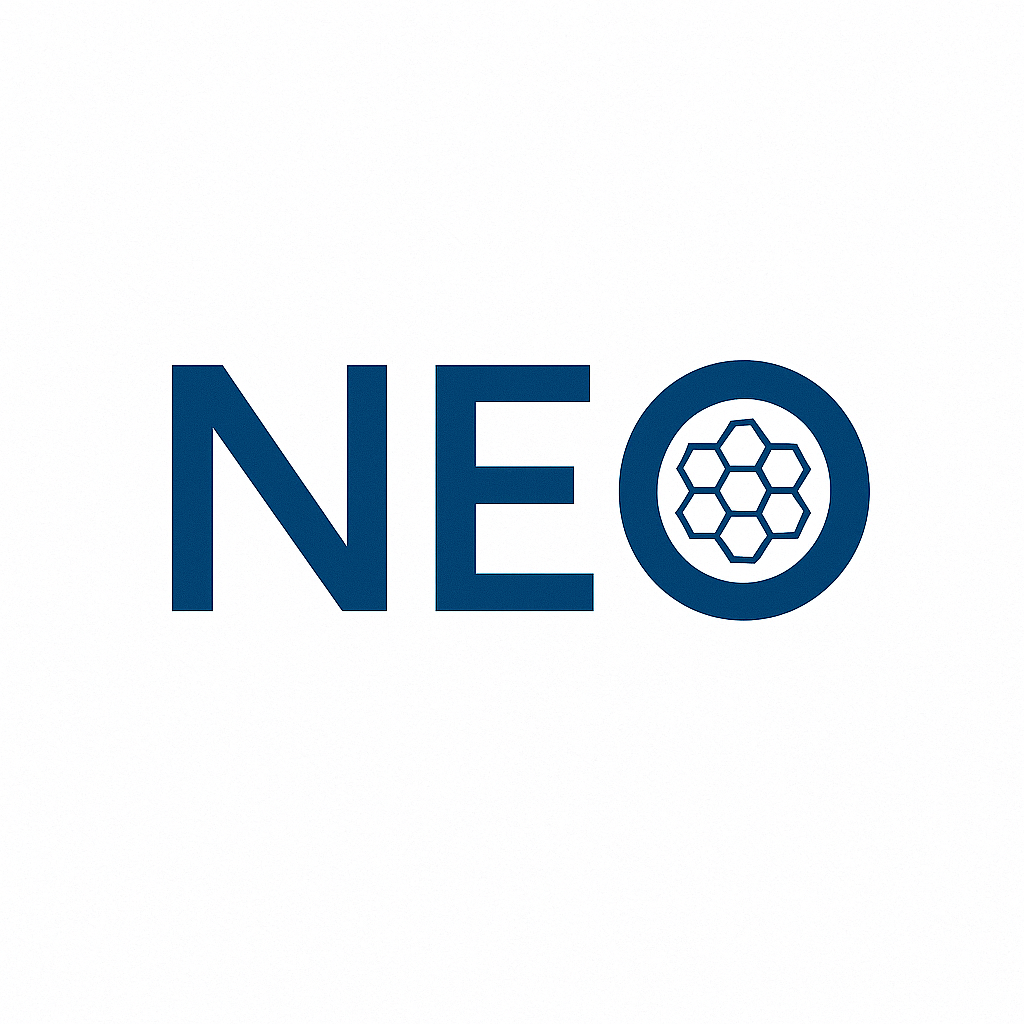
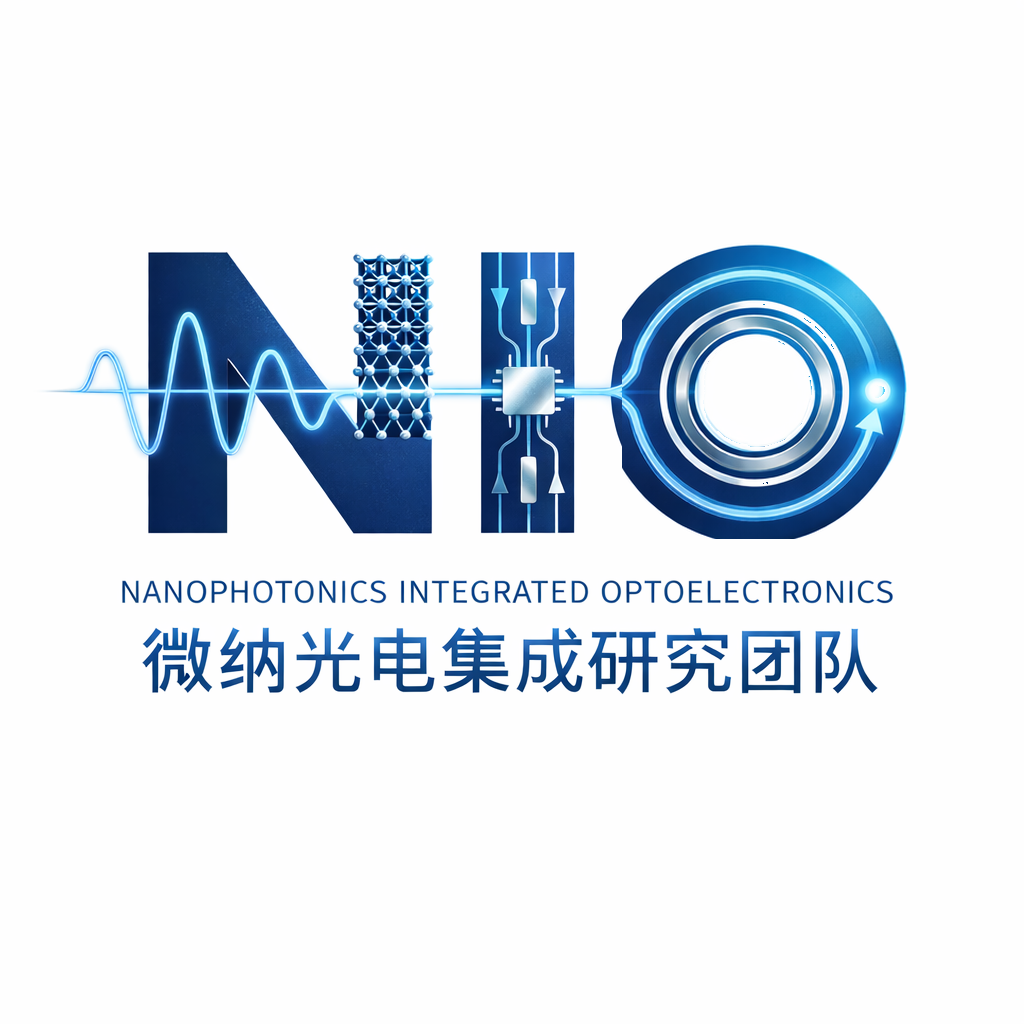
2026年3月31日

Changed region(s): [[0.0625, 0.2188, 0.9062, 0.6875]]

diff --git a/content/event/2025年课题组年会/index.md b/content/event/2025年课题组年会/index.md
@@ -1,0 +1,62 @@
+---
+title: 2025年度年终组会暨课题组聚餐
+
+event: 实验室年终总结与展望
+event_url: ""
+
+location: 学院会议室 
+
+summary: 2025年度工作总结、成果展示与课题组聚餐活动
+abstract: '本次年终活动分为两个部分：下午在学院会议室进行年度工作总结和学术交流，晚上举行课题组聚餐，共同庆祝一年的收获。'
+
+# 活动时间
+date: '2025-12-20T14:00:00Z'
+date_end: '2025-12-20T20:00:00Z'
+all_day: false
+
+# 页面发布时间
+publishDate: '2025-11-15T00:00:00Z'
+
+authors: []
+tags:
+  - 年终总结
+  - 课题组活动
+  - 聚餐
+
+# 是否在首页突出显示
+featured: true
+
+# 页面顶部图片
+image:
+  caption: '2025年度课题组年终活动'
+  focal_point: Center
+  filename: 0.jpg
+
+# 相关链接
+url_code: ''
+url_pdf: ''
+url_slides: ''
+url_video: ''
+
+# 关联的幻灯片（如果有）
+slides: ""
+
+# 关联的项目
+projects: []
+
+---
+## 📅 活动安排
+| 时间 | 内容 | 地点 |
+|------|------|------|
+| 14:00-14:30 | 签到与自由交流 | 学院会议室 |
+| 14:30-16:30 | 年度工作总结报告 | 学院会议室 |
+| 16:30-17:30 | 学生成果展示 | 学院会议室 |
+| 17:30-18:00 | 优秀表彰与颁奖 | 学院会议室 |
+| 18:30-20:00 | 课题组聚餐 | 校园餐厅 |
+
+## 📸 活动照片
+### 组会现场
+{{<gallery album="组会">}}
+### 聚餐时刻
+
+{{<gallery album="聚餐">}}

diff --git a/content/people/index.md b/content/people/index.md
@@ -14,11 +14,38 @@ sections:
           - Professors
           - Researchers
           - Grad Students
-          - Previous graduates
       sort_by: Params.cixu
       sort_ascending: true
     design:
       show_interests: false
       show_role: true
       show_social: true
+
+# 新增的表格区块
+  - block: markdown
+    content:
+      title: "课题组优秀毕业生"
+      text:   | 
+        |毕业生姓名 | 毕业时间 | 毕业去向 |
+        |------------|----------|----------|
+        | 吴清馨 | 2024.6 | 复旦大学读博 |
+        | 张昊旻 | 2024.6 | 电子科大读博 |
+        | 张智骁 | 2024.6 | 华为技术有限公司 |
+        | 曹欣怡 | 2023.6 | 私企工作 |
+        | 曹浩 | 2024.6 | 深圳市电信 |
+        | 李姝涵 | 2025.6 |  |
+        | 李笑忠 | 2021.6 | 中国联通就职 |
+        | 王岚菲 | 2025.6 |  |
+        | 王文琦 | 2023.6 | 中兴通讯 |
+        | 王玮奇 | 2025.6 | 华为技术有限公司 |
+        | 王羽凡 | 2025.6 |  |
+        | 罗冰 | 2024.6 | 中兴通讯 |
+        | 肖依博 | 2023.6 | 中兴通讯 |
+        | 董奇奥 | 2023.6 | 科研院所 |
+        | 蒋力 | 2022.6 | 中兴通讯 |
+        | 郭笑涵 | 2024.6 |  |
+        | 马敬轩 | 2024.6 | 河北普兴电子科技股份有限公司 |
+        
+    design:
+      columns: '1'
 ---

diff --git a/content/_index.md b/content/_index.md
@@ -8,12 +8,10 @@ sections:
   - block: hero
     content:
       title: |
-        **Nanophotonics Enhanced Optoelectronics**
+        <img src="icon.png" >
       image: 
-        filename: welcome.jpg
+        filename: w.png
       text: |
-        南京邮电大学材料与工程学院高丽课题组  
-
         <font face="times" size=4>
         研究课题方向:
 
@@ -22,13 +20,6 @@ sections:
         * Fabrication and application of flexible and tunable nanophotonic devices 
         
         </font>
-
-        
-
-
-        
-
-        
   
   - block: collection
     content:

diff --git a/content/authors/高丽/_index.md b/content/authors/高丽/_index.md
@@ -1,6 +1,6 @@
 ---
 # Display name
-title: Li Gao 高丽
+title: 高丽
 
 # Full name (for SEO)
 first_name: Li
@@ -12,7 +12,7 @@ authors:
   - 高丽
 
 # Is this the primary user of the site?
-superuser: false
+superuser: true
 
 # Role/position
 role: Professor, State Key Laboratory of Flexible Electronics

diff --git a/content/authors/赵慧娟/_index.md b/content/authors/赵慧娟/_index.md
@@ -1,6 +1,7 @@
 ---
 # Display name
-title: Huijuan Zhao 赵慧娟
+title: |
+  赵慧娟
 cixu: 0
 # Full name (for SEO)
 first_name: Huijuan

diff --git a/content/authors/于远方/_index.md b/content/authors/于远方/_index.md
@@ -1,6 +1,6 @@
 ---
 # Display name
-title: Yuanfang Yu 于远方
+title: 于远方
 cixu: 1
 # Full name (for SEO)
 first_name: Alice

diff --git a/content/authors/季石磊/_index.md b/content/authors/季石磊/_index.md
@@ -1,6 +1,6 @@
 ---
 # Display name
-title: Shilei Ji 季石磊
+title: 季石磊
 cixu: 4
 # Full name (for SEO)
 first_name: Shilei

diff --git a/content/authors/王安冉/_index.md b/content/authors/王安冉/_index.md
@@ -1,6 +1,6 @@
 ---
 # Display name
-title: Anran Wang 王安冉
+title: 王安冉
 cixu: 3
 # Full name (for SEO)
 first_name: Anran 

diff --git a/content/contact/index.md b/content/contact/index.md
@@ -9,7 +9,7 @@ sections:
     content:
       title: Contact
       text: |-
-        需要联系我们，请留言！
+        需要联系我们，请使用邮箱发送邮件！
       email: [email redacted]
       phone: # [phone redacted]
       address: